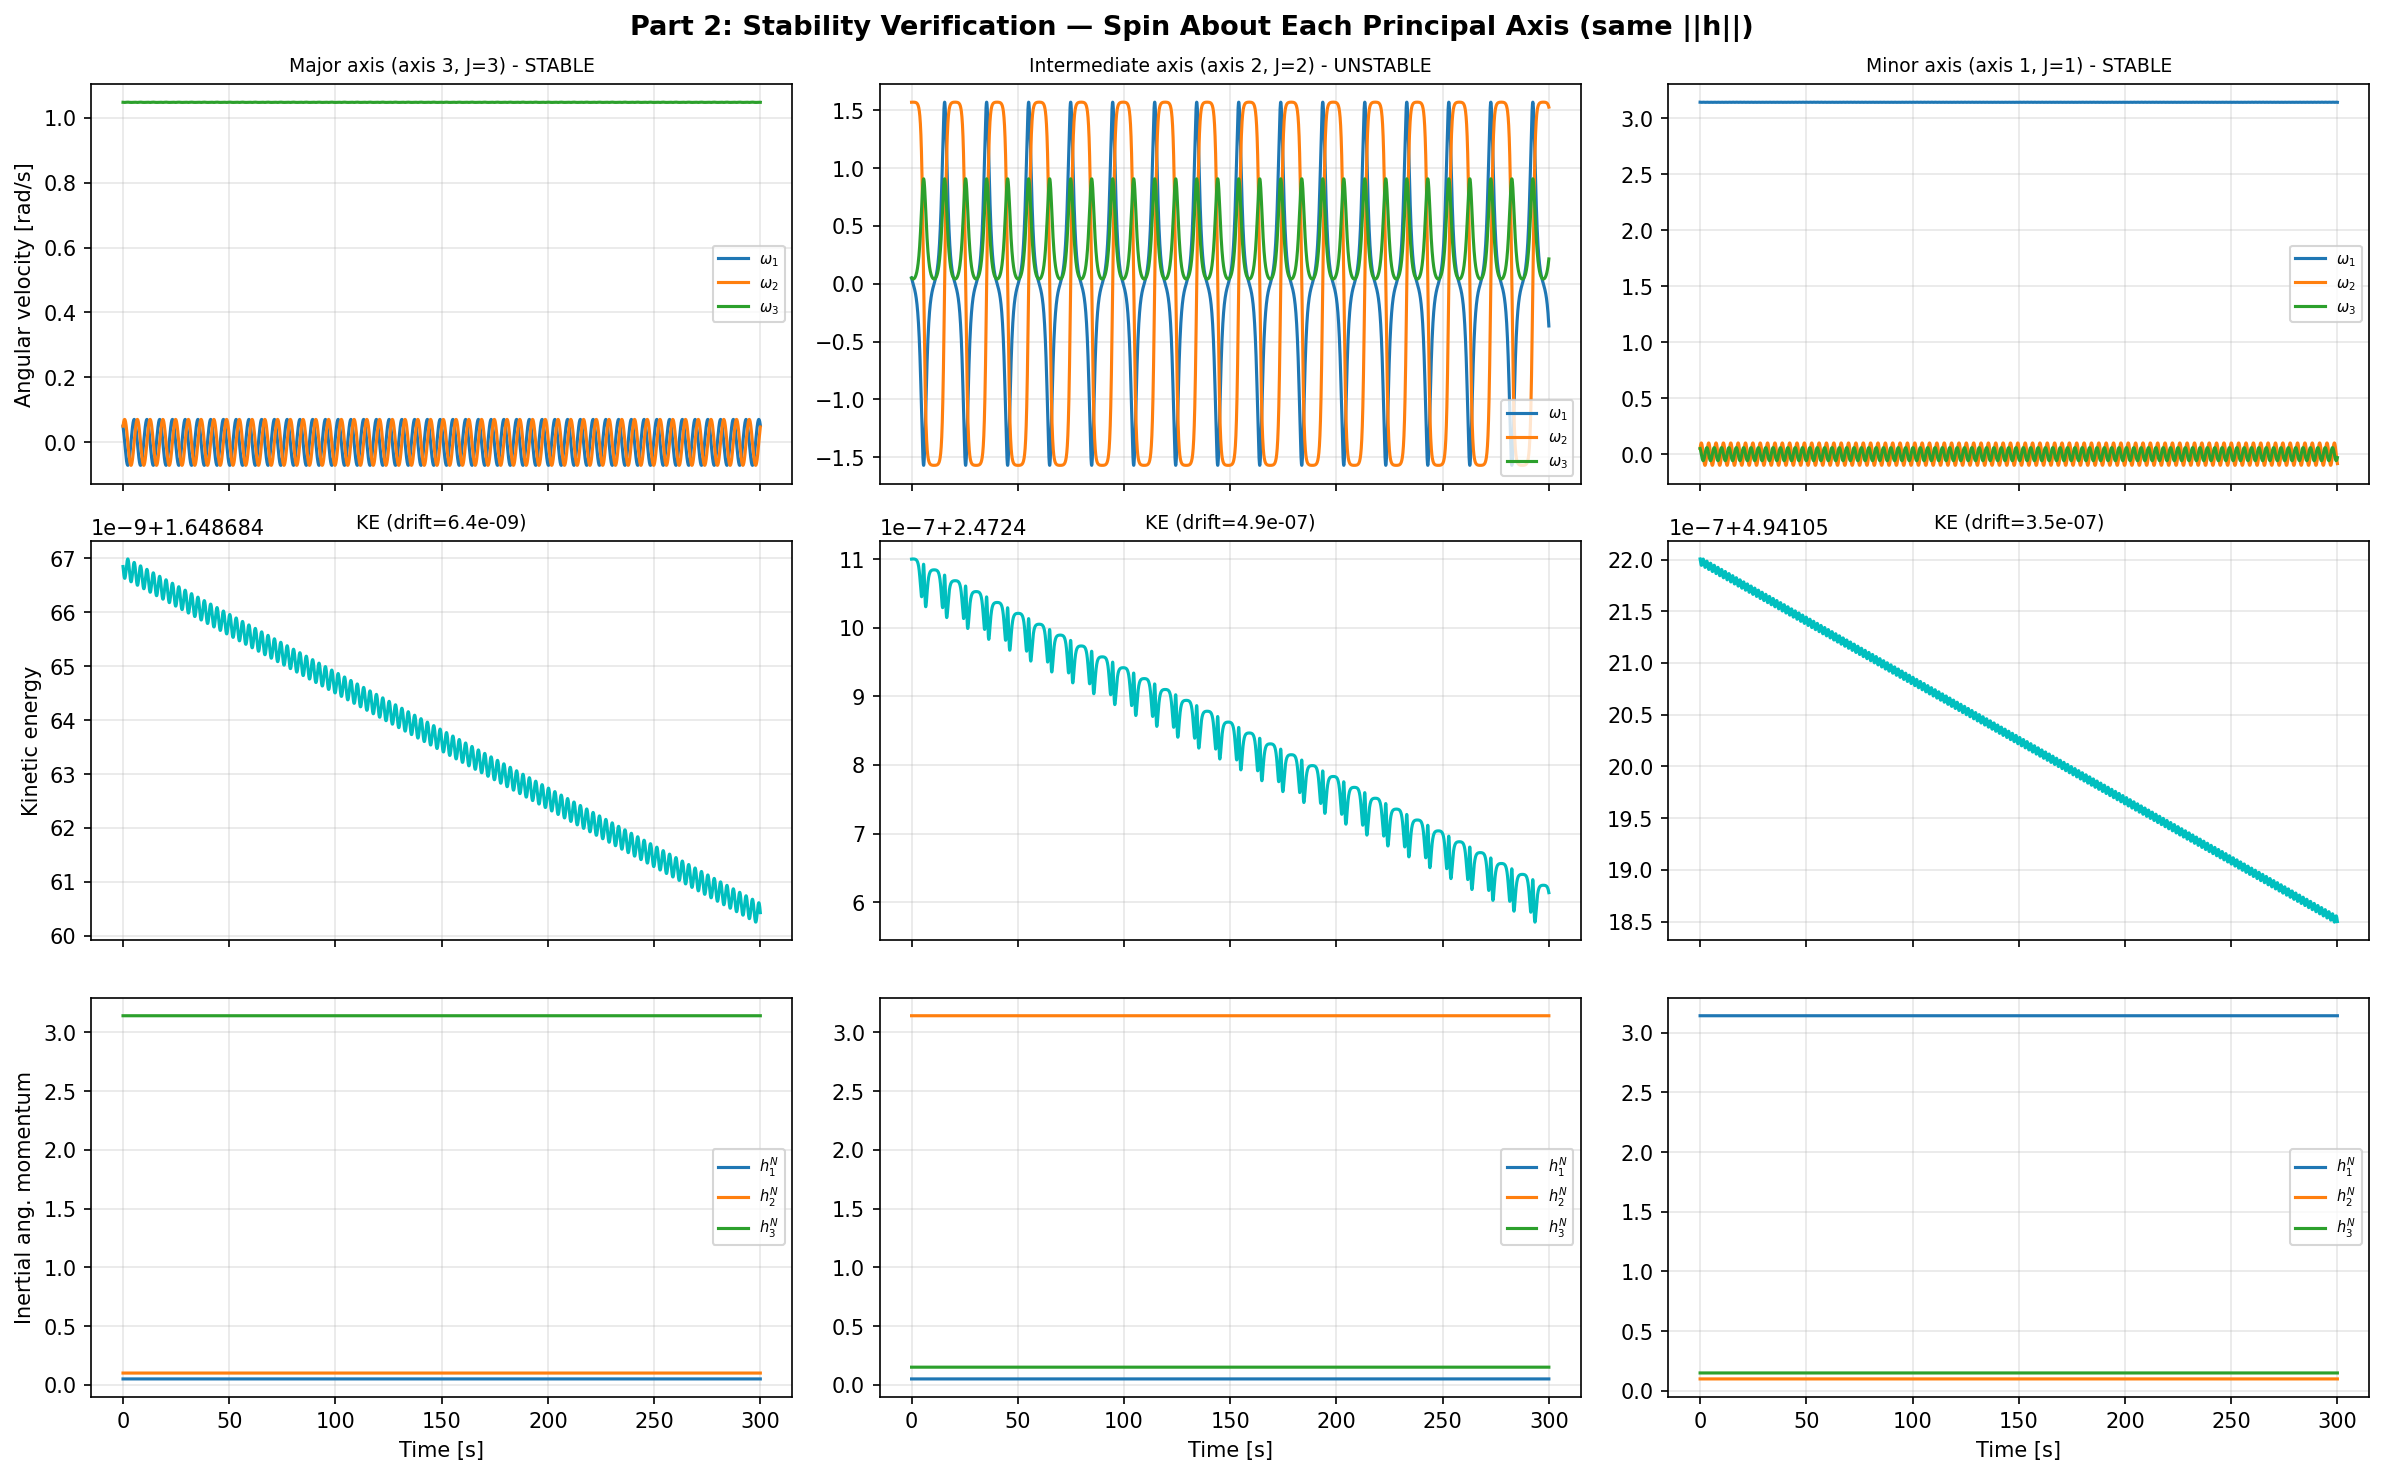
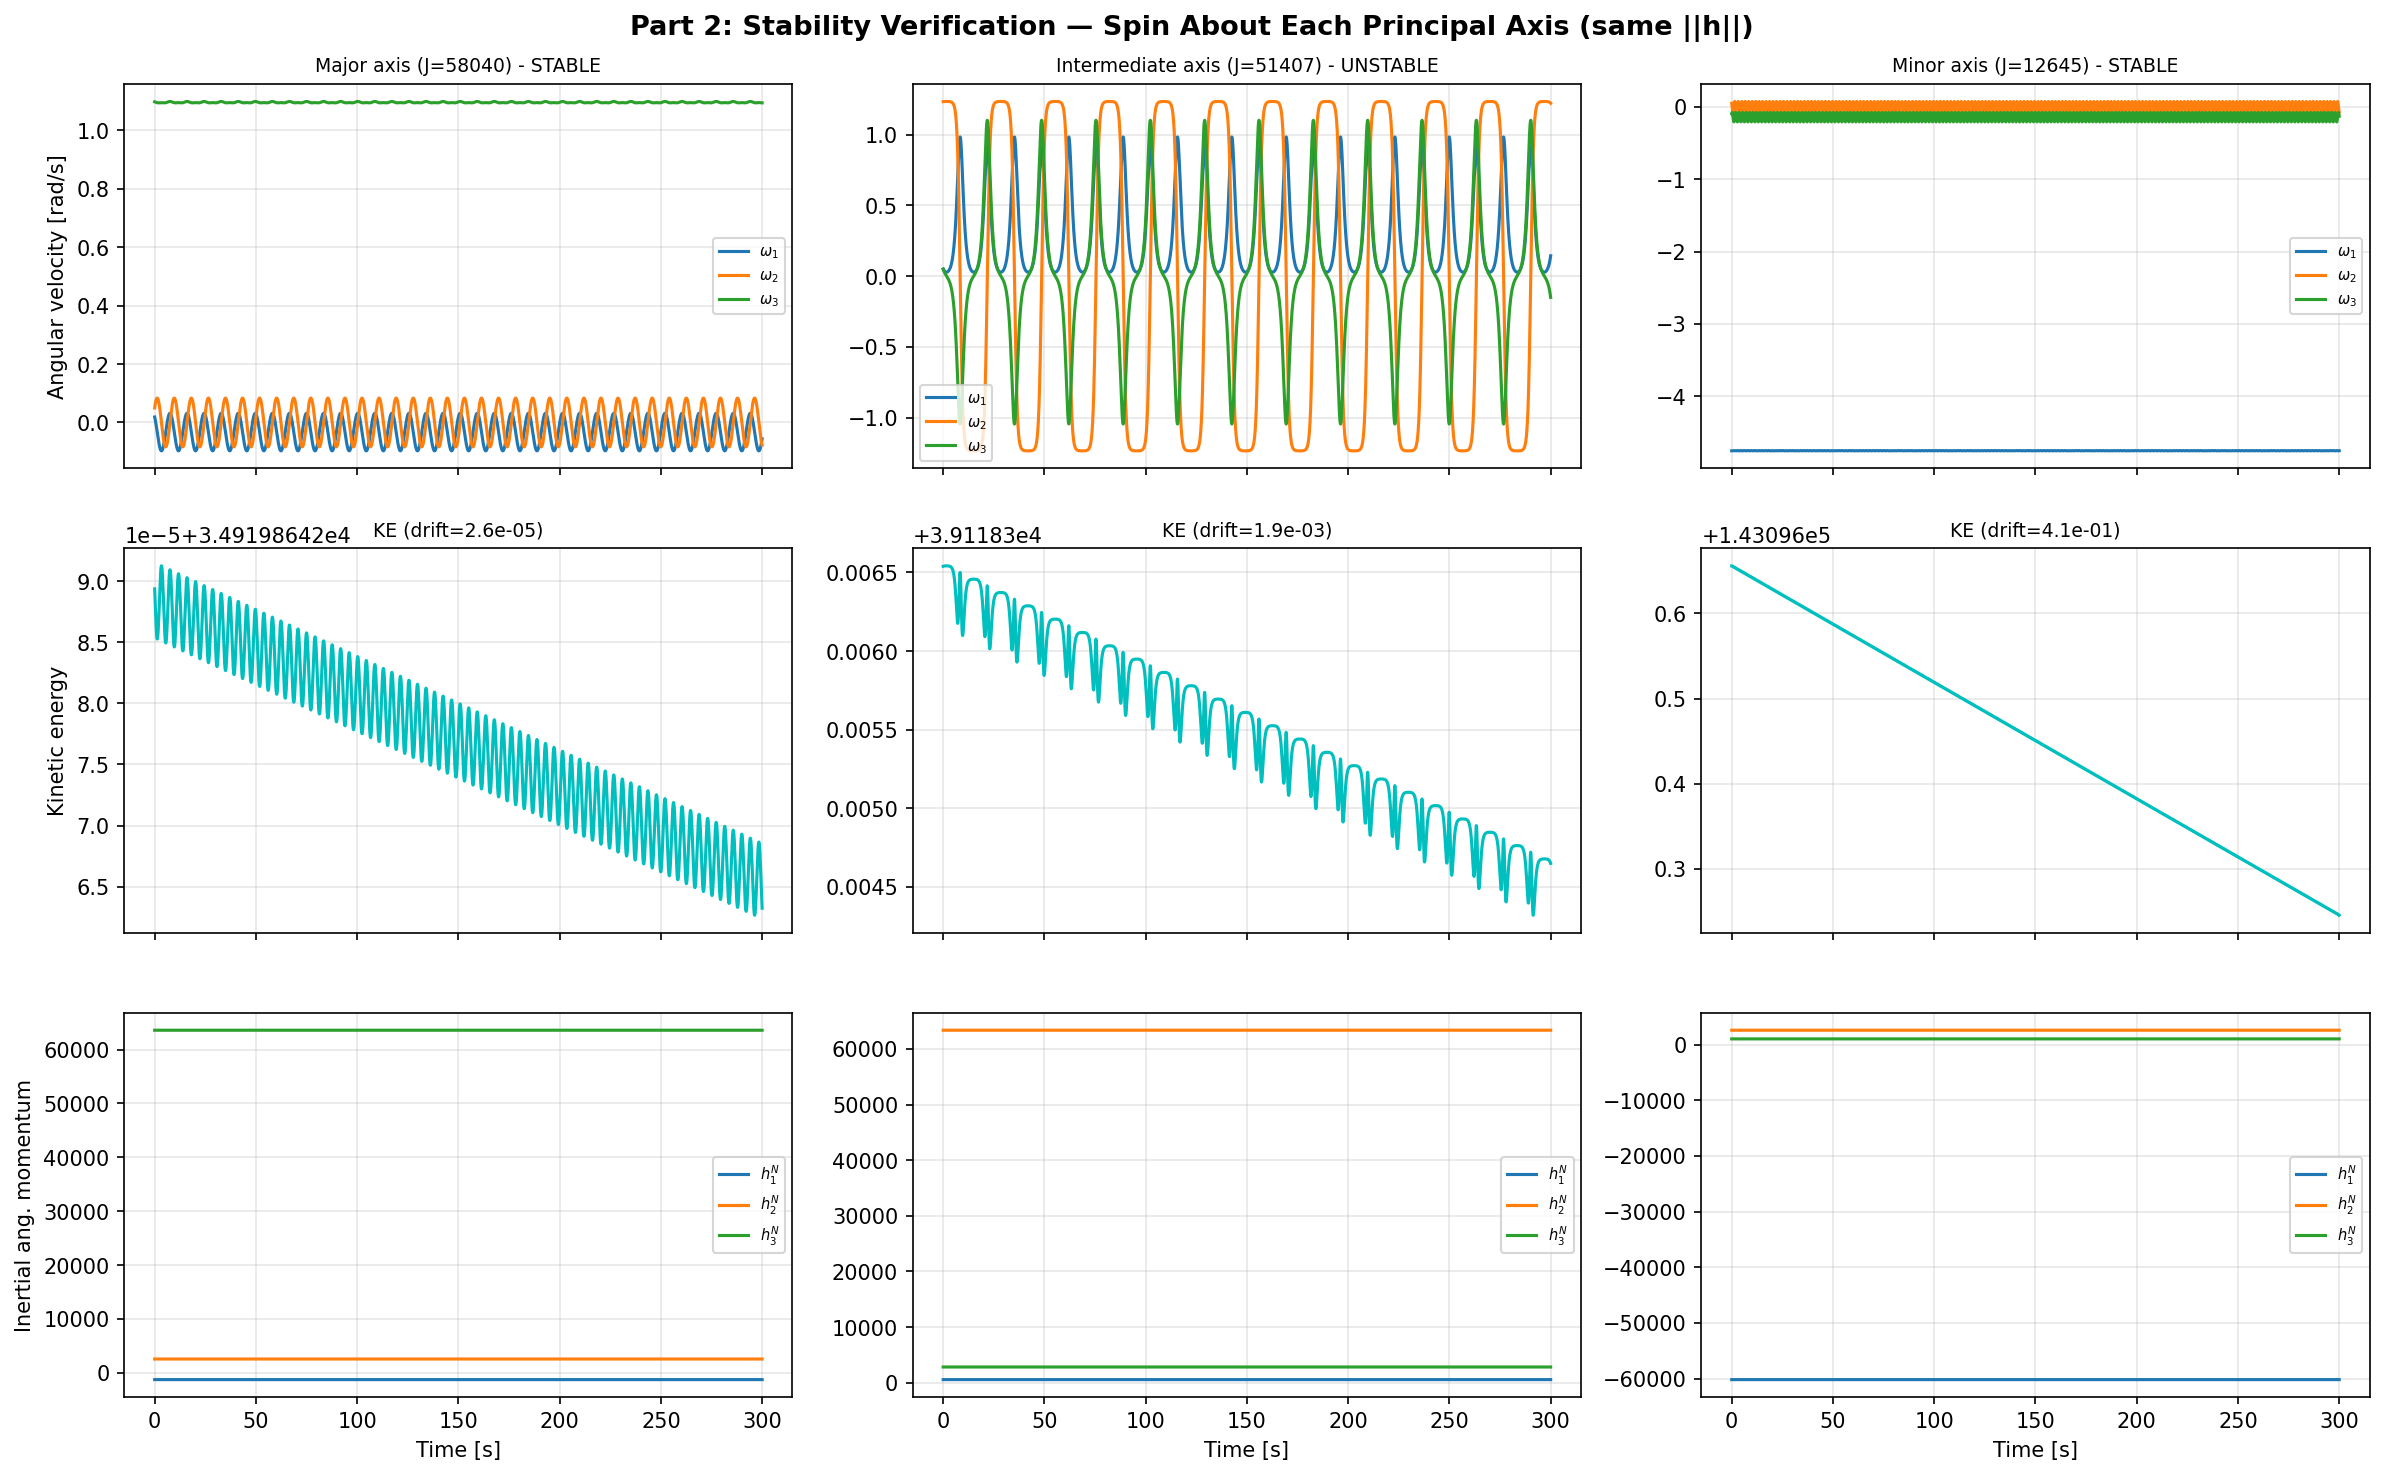
added dreamchaser mesh and inertia matrix

diff --git a/project_ws/src/attitude_viz.py b/project_ws/src/attitude_viz.py
@@ -4,7 +4,8 @@
 # Part 2: omega vs time for each principal axis case (stability verification)
 #          + energy/momentum conservation checks
 # Part 3: momentum sphere with 6 equilibria + all trajectories
-# Bonus:  PyVista 3D tumble animation (desktop window)
+# 
+# For fun: PyVista 3D tumble animation 
 #
 # Usage:  python attitude_viz.py
 # Install: pip install pyvista matplotlib numpy
@@ -14,7 +15,7 @@ import matplotlib.pyplot as plt
 
 from attitude_dynamics import (
     results, cases, extra_cases,
-    h_mag, J, J_diag, quat_to_rotmat,
+    h_mag, J, quat_to_rotmat,
     h_step, n_steps,
 )
 
@@ -124,7 +125,7 @@ plt.show()
 
 
 # ══════════════════════════════════════════════════════════════════════
-# BONUS: Additional view — momentum sphere from different angles
+# momentum sphere from different angles
 # ══════════════════════════════════════════════════════════════════════
 
 fig2, axes2 = plt.subplots(1, 3, figsize=(18, 6),
@@ -165,7 +166,7 @@ plt.show()
 
 
 # ══════════════════════════════════════════════════════════════════════
-# 3D PYVISTA TUMBLE ANIMATION (intermediate axis )
+# 3D PYVISTA TUMBLE ANIMATION (intermediate axis)
 # ══════════════════════════════════════════════════════════════════════
 
 try:
@@ -185,11 +186,55 @@ try:
     pl = pv.Plotter(window_size=[1200, 800])
     pl.set_background('black')
 
-    # box sized to reflect inertia
-    box_mesh = pv.Box(bounds=(-0.7, 0.7, -0.5, 0.5, -0.3, 0.3))
-    box_actor = pl.add_mesh(box_mesh, color='steelblue', show_edges=True,
-                            edge_color='white', opacity=0.9)
+    # SIMPLE BOX: box sized to reflect inertia
+    # box_mesh = pv.Box(bounds=(-0.7, 0.7, -0.5, 0.5, -0.3, 0.3))
+    # box_actor = pl.add_mesh(box_mesh, color='steelblue', show_edges=True,
+    #                         edge_color='white', opacity=0.9)
 
+
+    # DREAMCHASER MODEL:
+
+    # fuselage: long narrow body
+    fuselage = pv.Box(bounds=(-3.7, 3.7, -0.7, 0.7, -0.5, 0.5))
+
+    # wings: wide, thin, slightly below fuselage
+    wings = pv.Box(bounds=(-3.7, 3.7, -1.9, 1.9, 0.0, 0.1))
+
+    # nose: forward block
+    nose = pv.Box(bounds=(3.7, 5.1, -0.7, 0.7, -0.5, 0.5))
+
+    # wingtips: thin triangular-ish plates, swept back and below
+    tip_r = pv.Box(bounds=(-4.2, -1.2, 1.9, 3.1, -0.15, -0.05))
+    tip_l = pv.Box(bounds=(-4.2, -1.2, -3.1, -1.9, -0.15, -0.05))
+
+    spacecraft = fuselage.merge(wings).merge(nose).merge(tip_r).merge(tip_l)
+    spacecraft.points /= 5.0
+
+
+    # # ── Dream Chaser simplified mesh ──────────────────────────────
+    # # fuselage: 7.4 x 1.4 x 1.0 m centered at origin
+    # fuselage = pv.Box(bounds=(-3.7, 3.7, -0.7, 0.7, -0.5, 0.5))
+
+    # # wings: 7.4 x 3.8 x 0.15 m, offset down in z
+    # wings = pv.Box(bounds=(-3.7, 3.7, -1.9, 1.9, 0.3, 0.45))
+
+    # # nose: 1.4 x 1.4 x 1.0 m, forward
+    # nose = pv.Box(bounds=(3.7, 5.1, -0.7, 0.7, -0.5, 0.5))
+
+    # # starboard wingtip (triangle approximated as wedge)
+    # tip_r = pv.Box(bounds=(-4.2, -1.2, 1.9, 3.1, -0.3, -0.1))
+    # # port wingtip
+    # tip_l = pv.Box(bounds=(-4.2, -1.2, -3.1, -1.9, -0.3, -0.1))
+
+    # # combine into single mesh
+    # spacecraft = fuselage.merge(wings).merge(nose).merge(tip_r).merge(tip_l)
+
+    # # scale down for visualization (meters are big)
+    # spacecraft.points /= 5.0  # scale to ~1.5m bounding box
+
+    box_actor = pl.add_mesh(spacecraft, color='steelblue', show_edges=True,
+                            edge_color='white', opacity=0.9)
+    
     # inertial axes
     pl.add_mesh(pv.Arrow(start=(0,0,0), direction=(1,0,0), scale=1.5), color='red')
     pl.add_mesh(pv.Arrow(start=(0,0,0), direction=(0,1,0), scale=1.5), color='green')

diff --git a/project_ws/src/attitude_dynamics.py b/project_ws/src/attitude_dynamics.py
@@ -57,8 +57,17 @@ def quat_to_rotmat(q):
 # INERTIA & DYNAMICS
 # ══════════════════════════════════════════════════════════════════════
 
-J = np.diag([1.0, 2.0, 3.0])            # principal inertia [kg*m^2]
-J_diag = np.array([1.0, 2.0, 3.0])
+# example for testing
+# J = np.diag([1.0, 2.0, 3.0])            # principal inertia [kg*m^2]
+# J_diag = np.array([1.0, 2.0, 3.0])
+
+# spacraft inertia matrix
+J = np.array([[12685.21,      0,  -1358.05],
+              [     0,  51407.14,       0  ],
+              [-1358.05,      0,  57999.34]])
+
+# eigendecompose for principal axes and moments
+eigvals, eigvecs = np.linalg.eigh(J) # eigvals sorted like [minor, intermediate, major]
 
 
 def dynamics(x):
@@ -70,7 +79,8 @@ def dynamics(x):
 
     qdot     = 0.5 * G(q) @ omega
     tau      = np.zeros(3)
-    omegadot = (tau - hat(omega) @ J @ omega) / J_diag
+    # omegadot = (tau - hat(omega) @ J @ omega) / J_diag (little faster if we had diagonal J > might use for personal sim)
+    omegadot = np.linalg.solve(J, tau - hat(omega) @ J @ omega)
 
     return np.concatenate([qdot, omegadot])
 
@@ -127,34 +137,32 @@ def postprocess(xhist):
 # so angular momentum magnitude is the same for all three.
 # Small perturbation on off-axes to excite nutation.
 
+
+# sim params
+h_step  = 0.01
+n_steps = 6000    # 300 s total
+
 rpm = 10.0
 omega_major = rpm * 2 * np.pi / 60   # rad/s
 
 # angular momentum magnitude from major axis spin
-h_mag = J_diag[2] * omega_major      # ||h|| = J3 * omega3
+h_mag = eigvals[2] * omega_major      # ||h|| = J_major * omega
 
-# omega for each axis to give same ||h||
-omega_ax1 = h_mag / J_diag[0]        # minor axis   (J1 = 1)
-omega_ax2 = h_mag / J_diag[1]        # intermediate (J2 = 2)
-omega_ax3 = omega_major               # major axis   (J3 = 3)
-
+# omega for each principal axis to give same ||h||, expressed in body frame
 pert = 0.05  # perturbation [rad/s]
-
-# sim params
-h_step  = 0.05
-n_steps = 6000    # 300 s total
+pert_vec = pert * np.ones(3)
 
 cases = {
-    'Major axis (axis 3, J=3) - STABLE': {
-        'omega0': np.array([pert, pert, omega_ax3]),
+    f'Major axis (J={eigvals[2]:.0f}) - STABLE': {
+        'omega0': (h_mag / eigvals[2]) * eigvecs[:, 2] + pert_vec,
         'color': 'tab:blue',
     },
-    'Intermediate axis (axis 2, J=2) - UNSTABLE': {
-        'omega0': np.array([pert, omega_ax2, pert]),
+    f'Intermediate axis (J={eigvals[1]:.0f}) - UNSTABLE': {
+        'omega0': (h_mag / eigvals[1]) * eigvecs[:, 1] + pert_vec,
         'color': 'tab:red',
     },
-    'Minor axis (axis 1, J=1) - STABLE': {
-        'omega0': np.array([omega_ax1, pert, pert]),
+    f'Minor axis (J={eigvals[0]:.0f}) - STABLE': {
+        'omega0': (h_mag / eigvals[0]) * eigvecs[:, 0] + pert_vec,
         'color': 'tab:green',
     },
 }
@@ -163,11 +171,10 @@ cases = {
 np.random.seed(1)
 extra_cases = {}
 for i in range(4):
-    # random direction in h-space, same ||h||, then omega = J^{-1} h
     direction = np.random.randn(3)
     direction /= np.linalg.norm(direction)
     h_vec = h_mag * direction
-    omega_rand = h_vec / J_diag
+    omega_rand = np.linalg.solve(J, h_vec)
     omega_rand += 0.02 * np.random.randn(3)
     extra_cases[f'Random trajectory {i+1}'] = {
         'omega0': omega_rand,
@@ -198,7 +205,7 @@ for name, case in {**cases, **extra_cases}.items():
 if __name__ == "__main__":
     print(f"10 RPM = {omega_major:.4f} rad/s")
     print(f"||h|| = {h_mag:.4f} N*m*s")
-    print(f"omega for same ||h||:  axis1={omega_ax1:.4f}  axis2={omega_ax2:.4f}  axis3={omega_ax3:.4f}")
+    print(f"Principal moments: {eigvals}")
     print(f"Perturbation: {pert} rad/s")
     print(f"Sim: {n_steps} steps, h={h_step} s, tf={n_steps*h_step:.1f} s\n")
 
